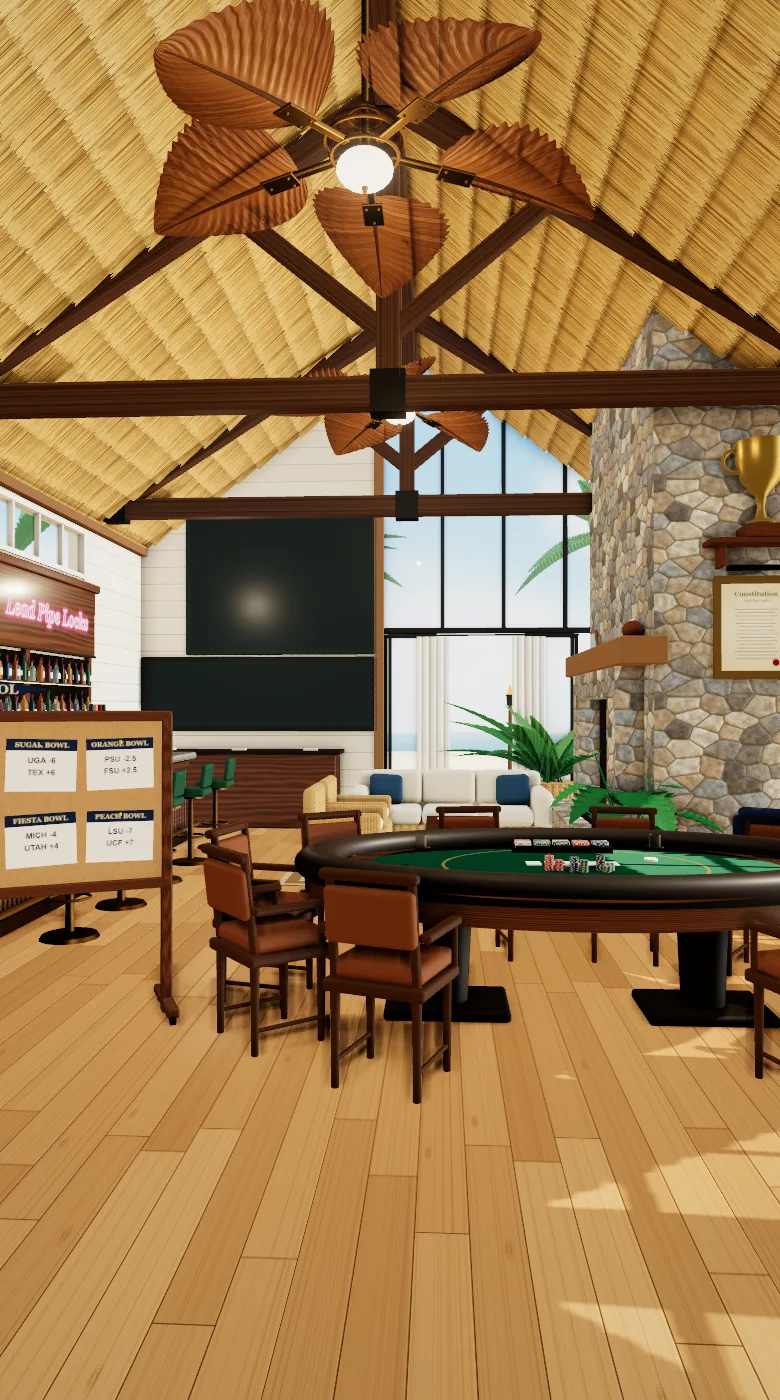
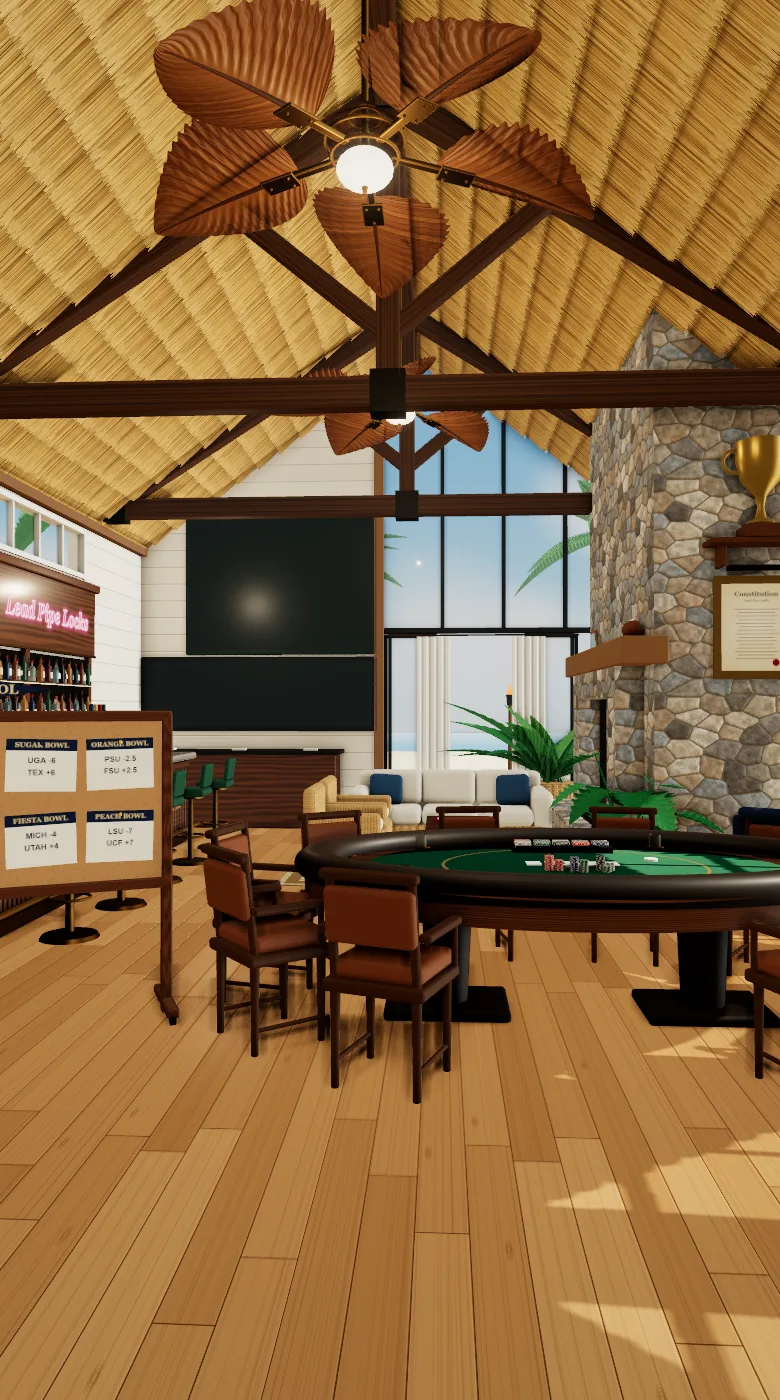
Constitution clauses lettered, toggle pills mirror each other, day room lit between bright and soft

diff --git a/tools/clubhouse-room/room.js b/tools/clubhouse-room/room.js
@@ -97,7 +97,7 @@ export async function buildRoom(q) {
   const renderer = new THREE.WebGLRenderer({ antialias: true, preserveDrawingBuffer: true });
   renderer.outputColorSpace = THREE.SRGBColorSpace;
   renderer.toneMapping = THREE.ACESFilmicToneMapping;
-  renderer.toneMappingExposure = Number(q.get("exp") ?? (night ? 1.0 : 1.45));
+  renderer.toneMappingExposure = Number(q.get("exp") ?? (night ? 1.0 : 1.25));
   renderer.shadowMap.enabled = true; renderer.shadowMap.type = THREE.PCFSoftShadowMap;
   renderer.setPixelRatio(scale); renderer.setSize(W, H, false);
   document.body.appendChild(renderer.domElement);
@@ -621,8 +621,8 @@ export async function buildRoom(q) {
   // ----- light: a bright mid-afternoon, the sun high enough that its patches on the floor are short and its shadows soft-edged and
   // light (plenty of fill from the sky and the pale walls), or a warm evening with the pool and the lanterns lit. The room's own
   // glow is added below from a picture of itself.
-  scene.add(new THREE.HemisphereLight(night ? 0x8090b8 : 0xfffaf0, night ? 0x2a1e16 : 0xe0c49a, night ? 0.16 : 1.9));
-  const sun = new THREE.DirectionalLight(night ? 0x9ab6ff : 0xfff0d8, night ? 0.25 : 3.7);
+  scene.add(new THREE.HemisphereLight(night ? 0x8090b8 : 0xfffaf0, night ? 0x2a1e16 : 0xe0c49a, night ? 0.16 : Number(q.get("hemi") ?? 1.6)));
+  const sun = new THREE.DirectionalLight(night ? 0x9ab6ff : 0xfff0d8, night ? 0.25 : Number(q.get("sunk") ?? 3.5));
   sun.position.set(night ? 6 : 15, night ? 14 : 14, night ? ZB - 14 : -4.5); sun.target.position.set(-1, 0, -5.5);
   sun.castShadow = true; sun.shadow.mapSize.set(4096, 4096); sun.shadow.bias = -0.0004; sun.shadow.normalBias = 0.02; sun.shadow.radius = night ? 1 : 5;
   Object.assign(sun.shadow.camera, { left: -14, right: 14, top: 16, bottom: -16, near: 1, far: 70 });
@@ -663,7 +663,7 @@ export async function buildRoom(q) {
     const eye = new THREE.CubeCamera(0.1, 200, around); eye.position.set(0.4, 2.4, -7.6); scene.add(eye);
     trophies.visible = false; skyPlane.material.color.setScalar(night ? 1.2 : 4);
     eye.update(renderer, scene);
-    trophies.visible = true; skyPlane.material.color.setScalar(1);
+    trophies.visible = true; skyPlane.material.color.setScalar(night ? 1 : Number(q.get("skyk") ?? 0.55));
     scene.environment = pmrem.fromCubemap(around.texture).texture; scene.environmentIntensity = Number(q.get("env") ?? (night ? 1.0 : 0.9));
   }
   // Finishing: soft shadow wherever two things meet (under the furniture, in the thatch, between the stones), a glow around

diff --git a/test/visual/clubhouse.visual.spec.ts b/test/visual/clubhouse.visual.spec.ts
@@ -218,6 +218,9 @@ test("the Big Board's week is a button: choosing another week shows that week's 
   const week = board.getByLabel("Change week");
   await expect(week).toBeVisible({ timeout: 30_000 });
   await expect(board.getByRole("button", { name: /Tap to (make|change) your picks/ })).toBeVisible();
+  // The two tabs are exact mirrors: the same width and height.
+  const tabs = await board.locator(".lab-tote-links > *").evaluateAll((nodes) => nodes.map((node) => { const box = node.getBoundingClientRect(); return [Math.round(box.width), Math.round(box.height)]; }));
+  expect(tabs).toHaveLength(2); expect(tabs[0]).toEqual(tabs[1]);
   await week.selectOption({ label: "Week 3 — Final" });
   await expect(board.locator("header")).toContainText("WEEK 3 · FINAL");
   await expect(board.locator(".lab-tote-ticket")).toHaveCount(0);   // a week looked back on cannot be picked in
@@ -242,6 +245,8 @@ test("the ticket has the Slate's All games / Pool action switch, kept on the pla
   const games = ticket.locator(".lab-window-part li");
   const switcher = ticket.getByRole("group", { name: "Games shown" });
   await expect(switcher.getByRole("button", { name: "All games" })).toHaveAttribute("aria-pressed", "true", { timeout: 30_000 });
+  const halves = await switcher.getByRole("button").evaluateAll((nodes) => nodes.map((node) => { const box = node.getBoundingClientRect(); return [Math.round(box.width), Math.round(box.height)]; }));
+  expect(halves[0]).toEqual(halves[1]);   // the two halves of the switch mirror each other
   const all = await games.count();
   expect(all).toBeGreaterThan(2);
   await switcher.getByRole("button", { name: "Pool action" }).click();
@@ -260,6 +265,10 @@ test("the rules' list of articles scrolls to the article and stays on the rules"
   await expect(rules).toBeVisible();
   await expect(page.getByRole("dialog", { name: "Your ticket" })).toHaveCount(0);
   await expect(page).toHaveURL(/\/clubhouse#rules$/);
+  // Every clause is lettered, (a) (b) (c), so it can be cited like a lawyer's: Article III(b).
+  const letters = await rules.locator(".lab-rules-article").first().locator("li").evaluateAll((items) => items.map((item) => getComputedStyle(item, "::before").content));
+  expect(letters.length).toBeGreaterThan(2);
+  for (const content of letters) expect(content).toContain("counter(clause, lower-alpha)");   // a, b, c in order; the browser keeps the counter in the computed value
 });
 
 test("the Survivor pop-up shows the whole table", async ({ page }) => {

diff --git a/src/styles/81-lab.css b/src/styles/81-lab.css
@@ -465,12 +465,16 @@
 .lab-rules-article { border-top: 1px solid var(--club-line); padding: 12px 0 4px; scroll-margin-top: calc(var(--site-nav-height, 0px) + 72px); }
 .lab-rules-article h6 { align-items: baseline; display: flex; font-family: var(--font-serif); font-size: 1.15rem; gap: 10px; margin: 0 0 6px; }
 .lab-rules-article h6 span { color: var(--club-gold-dk); font-size: .72rem; font-family: inherit; letter-spacing: .1em; text-transform: uppercase; white-space: nowrap; }
-.lab-rules-article ol { display: grid; gap: 6px; margin: 0; padding-left: 1.3rem; }
+.lab-rules-article ol { display: grid; gap: 6px; margin: 0; padding-left: 0; }
 .lab-rules-article li { font-size: .95rem; line-height: 1.45; }
-.lab-rules-article li::marker { color: var(--club-gold-dk); font-weight: 700; }
+.lab-rules-article li::before { color: var(--club-gold-dk); }
+/* Every clause is lettered, (a) (b) (c), so one can be cited the way a lawyer would: Article III(b). The same in the Commissioner's Handbook. */
+.lab-rules-article ol, .clauses-lettered { counter-reset: clause; list-style: none; padding-left: 0; }
+.lab-rules-article li, .clauses-lettered li { counter-increment: clause; display: grid; gap: .45rem; grid-template-columns: 1.7rem minmax(0, 1fr); }
+.lab-rules-article li::before, .clauses-lettered li::before { content: "(" counter(clause, lower-alpha) ")"; font-weight: 700; white-space: nowrap; }
 /* Under the Big Board's title: where you are, and one tap to the Survivor table. */
-.lab-tote-links { display: flex; gap: 8px; justify-content: center; margin-bottom: 8px; }
-.lab-tote-links > * { align-items: center; border: 1px solid rgba(201, 164, 95, .55); border-radius: 999px; display: inline-flex; font: inherit; font-size: .85rem; font-weight: 800; gap: 6px; min-height: 44px; padding: 0 16px; }
+.lab-tote-links { display: grid; gap: 8px; grid-template-columns: 1fr 1fr; margin: 0 auto 8px; max-width: 20rem; }
+.lab-tote-links > * { align-items: center; justify-content: center; text-align: center; border: 1px solid rgba(201, 164, 95, .55); border-radius: 999px; display: inline-flex; font: inherit; font-size: .85rem; font-weight: 800; gap: 6px; min-height: 44px; padding: 0 16px; }
 .lab-tote-links span { background: var(--cw-gold); border-color: var(--cw-gold); color: rgb(14 14 12); }
 .lab-tote-links button { background: transparent; color: rgb(240 236 226); cursor: pointer; }
 .lab-tote-links button i { color: var(--cw-gold-lt); font-style: normal; }

diff --git a/src/styles/52-commissioner-numbers.css b/src/styles/52-commissioner-numbers.css
@@ -34,8 +34,9 @@
 .dash-big { flex: none; text-align: right; }
 .dash-big b { display: block; font-family: var(--font-serif); font-size: 26px; font-variant-numeric: tabular-nums lining-nums; font-weight: 600; line-height: 1; }
 .dash-big small { color: var(--club-muted); display: block; font-size: 12px; margin-top: 3px; }
-.dash-switch { background: var(--club-page); border: 1px solid var(--club-line); border-radius: 999px; display: inline-flex; flex: none; gap: 2px; padding: 3px; }
-.dash-switch button { border-radius: 999px; color: var(--club-muted); cursor: pointer; font-size: 12.5px; font-weight: 700; min-height: 36px; padding: 0 12px; position: relative; white-space: nowrap; }
+/* The halves are exact mirrors: equal columns, words centred, stacked in two lines where a half is too narrow for them. */
+.dash-switch { background: var(--club-page); border: 1px solid var(--club-line); border-radius: 999px; display: inline-grid; flex: none; gap: 2px; grid-auto-columns: 1fr; grid-auto-flow: column; padding: 3px; }
+.dash-switch button { align-items: center; border-radius: 999px; color: var(--club-muted); cursor: pointer; display: flex; font-size: 12.5px; font-weight: 700; justify-content: center; line-height: 1.15; min-height: 36px; padding: 0 12px; position: relative; text-align: center; white-space: nowrap; }
 .dash-switch button::before { content: ""; inset: -4px 0; position: absolute; }
 .dash-switch button[aria-pressed="true"] { background: var(--cw-green); color: var(--cw-cream); }
 

diff --git a/src/components/commissioner-handbook.tsx b/src/components/commissioner-handbook.tsx
@@ -117,7 +117,7 @@ export default function CommissionerHandbook() {
               {articles.map(({ title, clauses }) => (
                 <article className="desk-panel p-3" key={title}>
                   <h5 className="font-bold">{title}</h5>
-                  <ol className="mt-1 list-decimal space-y-1 pl-5 text-sm leading-5 text-(color:--themed-text-29)">
+                  <ol className="clauses-lettered mt-1 space-y-1 text-sm leading-5 text-(color:--themed-text-29)">
                     {clauses.map((clause) => <li key={clause}>{clause}</li>)}
                   </ol>
                 </article>

diff --git a/src/components/lab/lab-tote.tsx b/src/components/lab/lab-tote.tsx
@@ -143,7 +143,7 @@ export function ToteBoard({ view, onOpen, onSurvivor, onWeek, sent = false }: { 
       {onSurvivor ? (
         <div className="lab-tote-links">
           <span aria-current="page">Big Board</span>
-          <button onClick={onSurvivor} type="button">Survivor <i aria-hidden="true">›</i></button>
+          <button onClick={onSurvivor} type="button">Survivor</button>
         </div>
       ) : null}
       <WeekFace open={view.canPick ? onOpen : null} view={view} />

diff --git a/docs/VIEW_STATES.md b/docs/VIEW_STATES.md
@@ -157,7 +157,7 @@ Shot as the chat element alone, at phone 390 and desktop 1280, day and night. Fo
 | "Notifications on this phone" on Notifications (every player): `off`, `on`, `blocked`, `iphone-tab` (an iPhone browser tab, told to add the app to the Home Screen) and `no-support`, day at phone and desktop width, plus `on` at night; behavior tests follow the taps (turn on: permission, key, save; test; turn off) and show the section to a player who is not the Commissioner too (`phone-notifications.visual.spec.ts`) | `/profile` |
 | In-app "Turn on notifications" banner (Home Screen app, signed in, notifications not on yet): `offer` day at phone and desktop, night at phone, and `on` after one tap; behavior tests: one tap asks the phone and saves it, a "no" says where to turn them on later, Not now keeps it away after reopening, and no banner in a browser tab, when already on, when blocked, on Notifications, or before sign-in (`notifications-banner.visual.spec.ts`) | any page in the app |
 | Workshop Lab (`/admin/workshop/lab`, Commissioner only): the Showroom and Lab tabs (Lab green), one line "Try-outs before they reach players. Nothing here changes the pool.", a shelf of try-out chips (Tote board, Pad skins, Clubhouse, Survivor table, Horse race, Feel test; the choice kept in `?try=` and on this device), then the chosen try-out (shot here with the Feel test); the whole page, phone and desktop, day and night (`workshop.visual.spec.ts`); a player sees only "Commissioner only." and the tabs, and the Showroom and Lab tabs lead to each other (`haptic-feel-test.visual.spec.ts`) | `/admin/workshop/lab` as the Commissioner |
-| The clubhouse (`/clubhouse`, Commissioner only): the room fills the screen with the real standings and week's games on its boards, your ticket at the foot; every thing in it opens a pop-up over it: the new Big Board and your ticket (a pick is the real `POST /api/picks`; a refused pick says so on the ticket), the real Survivor table, the Trophy Room with plaques and records, the constitution (the Bowl Pool and a playoff week still open the classic page in place); a decided game shows each side's final score and who covered (ticket and ticker); once Survivor is decided or in the playoffs the poker table is the Bowl Pool's, in navy and gold; the Big Board's tabs read Big Board / Survivor, its week is a button that shows another week's picks (no Survivor column, no ticket bar; behavior test), the ticket has the Slate's All games / Pool action switch (behavior test), and with every pick in and locked there is no ticket bar (unit test); sliding a pop-up down never pulls the refresh chain (behavior test); a player is sent to the Standings | `test/visual/clubhouse.visual.spec.ts` (phone by day and night, desktop by day; links; player redirect) |
+| The clubhouse (`/clubhouse`, Commissioner only): the room fills the screen with the real standings and week's games on its boards, your ticket at the foot; every thing in it opens a pop-up over it: the new Big Board and your ticket (a pick is the real `POST /api/picks`; a refused pick says so on the ticket), the real Survivor table, the Trophy Room with plaques and records, the constitution (the Bowl Pool and a playoff week still open the classic page in place); a decided game shows each side's final score and who covered (ticket and ticker); once Survivor is decided or in the playoffs the poker table is the Bowl Pool's, in navy and gold; the Big Board's tabs read Big Board / Survivor, its week is a button that shows another week's picks (no Survivor column, no ticket bar; behavior test), the ticket has the Slate's All games / Pool action switch (behavior test), and with every pick in and locked there is no ticket bar (unit test); sliding a pop-up down never pulls the refresh chain (behavior test); the two tabs and the two halves of the ticket's switch are the same size (behavior test); the constitution's clauses are lettered (a) (b) (c) (behavior test); a player is sent to the Standings | `test/visual/clubhouse.visual.spec.ts` (phone by day and night, desktop by day; links; player redirect) |
 | Lab try-out, Clubhouse: the whole pool as one grand beach bungalow, phone first, sample league only. **The room** is a 3D picture (rendered by `tools/clubhouse-room`; by day, and at night with the pool lit) seen from standing eye level just inside, looking down the room. Its two screens are live: the Big Board's top line always shows the leader and their wins ("LEADER Earl 15", or "3 LEADERS 13" when level), and below it the rest of the standings turn a page every 8 seconds, up to five a page (nine players: five, then four; "1/2" in its header), and the spreads board stands two games wide and shifts up a row every 7 seconds, two whole games always up (held still for reduced motion); the fans and plants do not move;  the page draws them in perspective, your own picks lit in the ticker; nobody else's unstarted pick is shown; what has to be read hangs on the wall that faces the viewer, nothing is turned to the camera by a trick. The room is lit as a real one is (late sun raking through the glass and across the oak floor, soft shadow wherever two things meet, the room reflected in its own brass and floor), and there is room to walk: in past the poker table, along the bar, round the lounge and out through the open doors. Windows down both side walls (tall ones at the front, a clerestory strip over the bar) let the sun in across the floor. A thatched beach-hut ceiling laid in courses, with three dark timber trusses and a ridge beam spanning the room up high, with two big palm-leaf fans, each blade a modelled leaf, each with a light; on the back wall, left, where picks are made, face on (the Big Board, under it one board of the week's spreads as wide as the wall in big type, the counter; no sign names it); on its right, glass to the thatch with the sliding doors standing open onto the pool patio, a linen sheer at each side, palms, tiki torches and the sea beyond; down the left wall the bar (a fluted walnut front on a brass kick plate, a marble top, green leather stools on brass, a back bar of walnut and antique mirror with three lit glass shelves of real bottles, glassware on the back counter and the neon above; the laptop on top); on the right a grand fieldstone chimney floor to thatch (the fire lit at night, laid but cold by day) with a painted Trophy Room sign fixed to its near face, its arrow pointing on past the fire, and the constitution framed under it; the lounge in front of the fire (a sofa, two cane armchairs, a low table) set clear of the aisle; forward in the middle, well clear of the fire, a long oval Survivor poker table built as a real one is (a padded leather armrest round a walnut racetrack, felt with a gilt betting line, two pedestals, the dealer's chip tray at the far side) with a proper poker chair for every player (ten: four legs, a padded leather seat and back, wooden arms), a hand dealt to each; and from Dec 7 the Bowl Pool's bulletin board on wheels at the left, beside the end of the bar and clear of the poker table, the bowl games pinned up as cards. The wall boards meet evenly at the corners. A tap spot (never smaller than 44px) lies over each, and **each wears a gilt name plate with an arrow, always** (The Big Board, Your picks, Survivor, Trophies, Plaques, Chat, Rules, and the Bowl Pool from Dec 7; no two plates overlap): the picks wall ("Your picks") opens the Big Board with your ticket ready, the Big Board the Big Board, the Trophy Room sign the Trophy Room, the poker table the Survivor table; the laptop (pool chat), constitution and Bowl Pool board open stand-ins for now. Plaques and records are not spots in the room: they are in the Trophy Room. The Big Board ("Earl leads · You: T2"), Your picks ("1 owed" / "All in"), Survivor ("5 of 10 still in · You're in") and the Bowl Pool board carry a line of news on their plate. The laptop shows a mail sign when there's a new message; the picks wall glows while a pick is owed. Under the picture, the rooms as a plain list. **Your ticket** is pinned to the bottom of every clubhouse screen: a lamp per pick (lit once it is in) and the next deadline; it opens the Big Board with the ticket ready. **Picks are made on the Big Board** (see the Tote board row): there is no Window room. Every room has one "Back to Clubhouse" button and its name at the top. **Trophy Room:** today's Trophy Room page: the turning table (its arrows turn it) and the banners of the trophy at the front, with the sample champions, then the season plaques (and a scene where a champion is crowned) and the all-time Records table. Pictures: the room (as it opens, from Dec 7, all picks in with nothing new), the Big Board, the Trophy Room and the Plaques' two scenes, phone and desktop by day, phone at night; behaviour tests: every spot opens its room and comes back, spots are thumb-sized, the name plates (all there, none overlapping), the live boards (standings, your picks lit on the spreads), mail sign, Bowl Pool board and room list, the pinned ticket (opens the Big Board with the ticket; sending the owed pick lights the third lamp); the Trophy Room's table turns by its arrows, hangs the front trophy's champions and shows nothing else, the plaques and pennant (`lab.visual.spec.ts`); data rules in `test/lab-clubhouse.test.mjs` | `/admin/workshop/lab?try=clubhouse` |
 | Lab try-out, Horse race (the season as a thoroughbred race, sample players only): a headline ("Earl leads by 1 · You: T2", or "Earl wins the pool after Conference Sunday"), a Run the race button and Week 9 / Week 18 / Playoffs / Decided chips. Ten lanes down a straight turf track (white rails, furlong poles, a red and white finish pole), each with the player's name and wins, a thoroughbred in the player's silks ahead by wins; your own lane has a gilt edge; a horse that can no longer tie the leader pulls up (greyed, "pulled up"); once the pool is decided the leader stands at the finish pole in a gold lane. Still until run; Run the race winds all back to the gate and runs the season to where it is now, week by week then game day by game day (reduced motion just shows where they stand). Pictures: each moment, phone and desktop by day, phone at night; behaviour tests for the run (back to the gate, the weeks go by, ends where it began), the decided and pulled-up states and horses staying on the track at 360 (`lab.visual.spec.ts`); the rules in `test/lab-race.test.mjs` | `/admin/workshop/lab?try=race` |
 | Lab Lamp-lit switch (on the shelf, remembered on this device): at night the try-outs sit under one warm lamp (a pool of light from above with no visible edge, shadow around it, one warm paper tone, a glow on the felt and the clubhouse rooms); by day it only shows a note that it is a night look; Survivor table, Clubhouse and Pad skins, night, phone and desktop (`lab.visual.spec.ts`) | `/admin/workshop/lab` with Lamp-lit on |

diff --git a/docs/DECISION_LOG.md b/docs/DECISION_LOG.md
@@ -31,6 +31,11 @@ and add a row above.
 - The ticket bar (and the ticket) show only while something can still change: a pick or Survivor team whose game has not kicked off, or a pick
   still owed. With every pick in and locked the Big Board has no bar and the room's ticket says "All 3 in · all locked".
 - Sliding a pop-up down never pulls the refresh chain: while a pop-up (`dialog[open]`) is open, a pull on the page is ignored.
+- Every clause of the constitution is lettered, (a) (b) (c), in the clubhouse's Constitution and in the Commissioner's Handbook, so a clause is cited
+  like a lawyer's: Article III(b). The letters are drawn by the page (a counter), not typed into `POOL_CONSTITUTION`, so adding a clause renumbers itself.
+- A pair of toggle pills is two exact mirrors: the same width and height, words centred, stacked where a half is too narrow (the Big Board's tabs,
+  the ticket's All games / Pool action, the numbers pages' `ViewSwitch`). The Survivor tab has no arrow, so it matches Big Board.
+- The room's day picture is lit between the first bright try and the first soft one: the window glass and far wall were clipping to white.
 
 ## 2026-11-15 - Final scores and who covered; Survivor leaves the room with the classic pages; the mail flag (Commissioner only)
 
